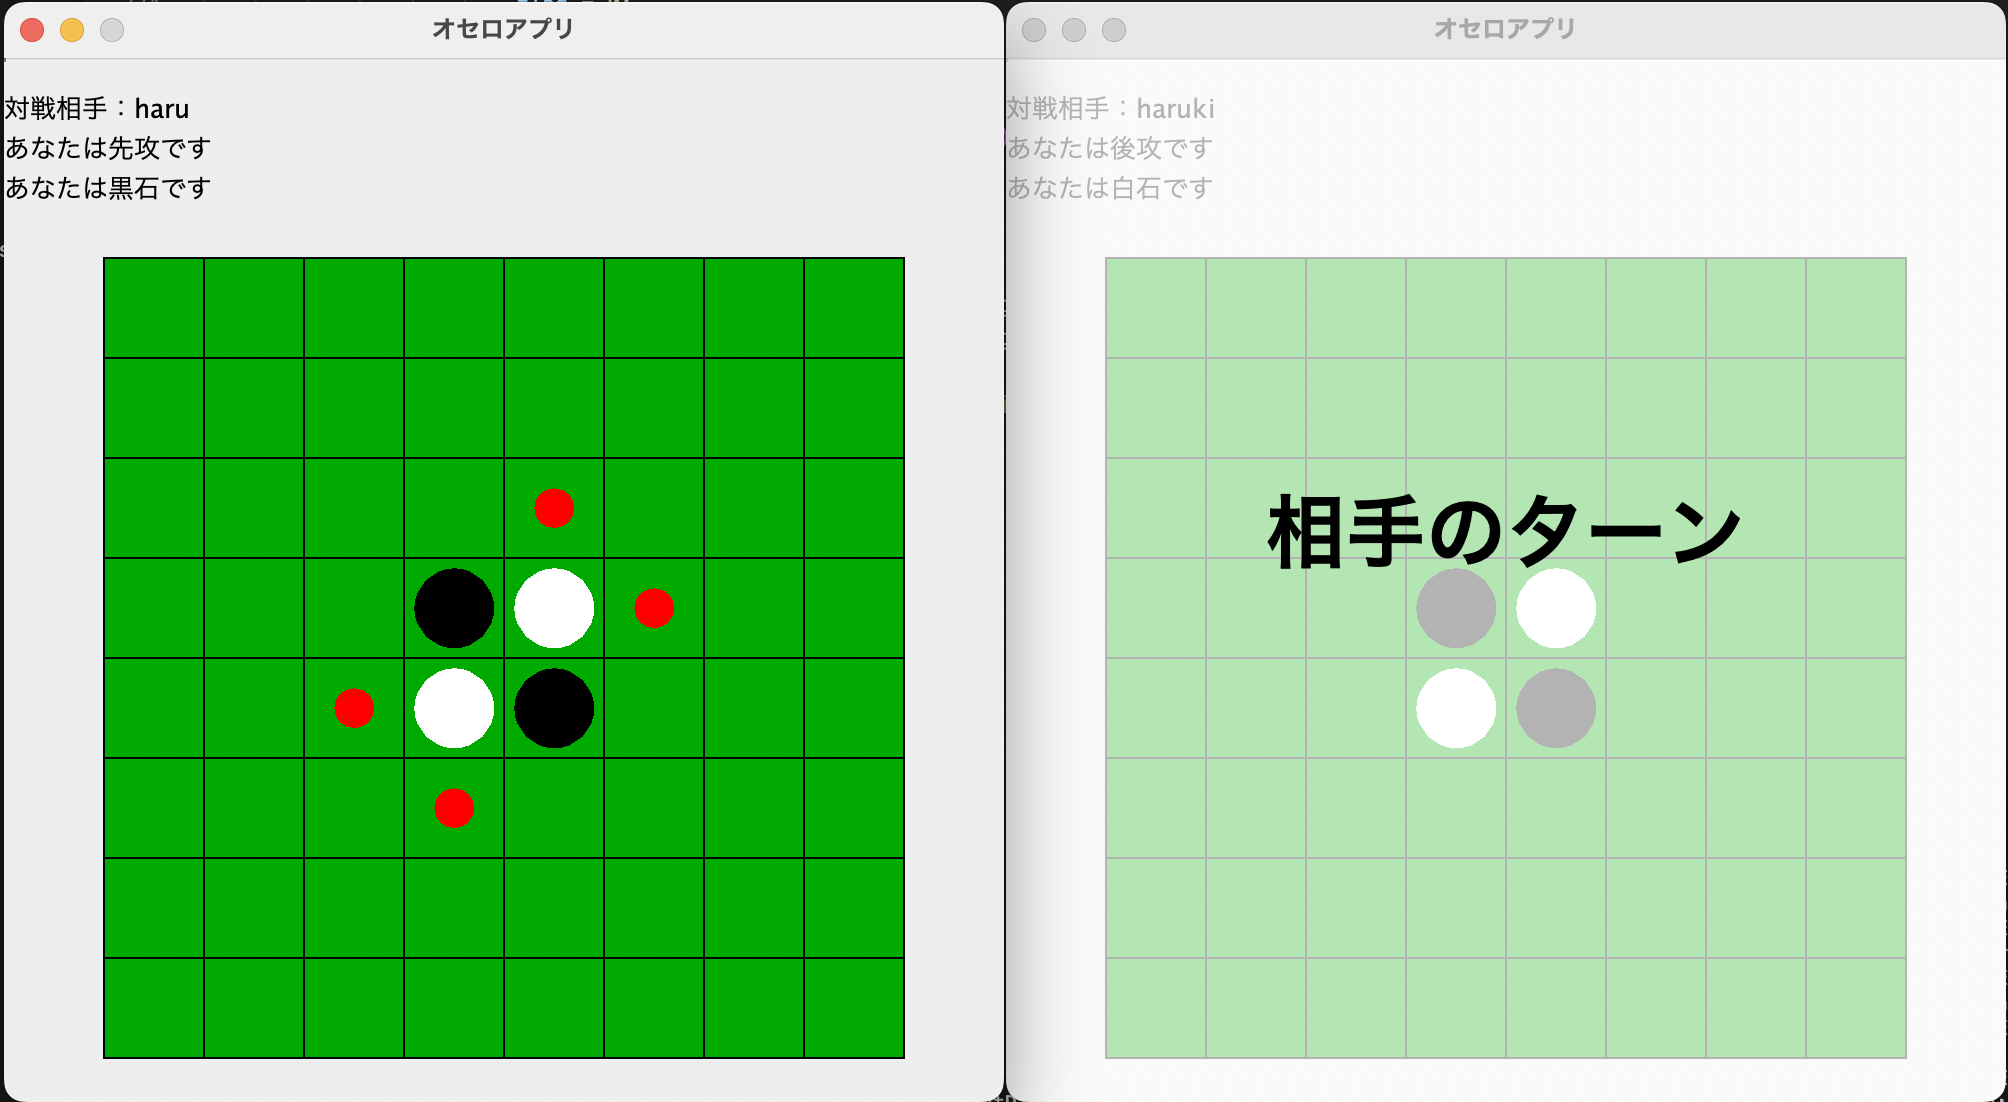
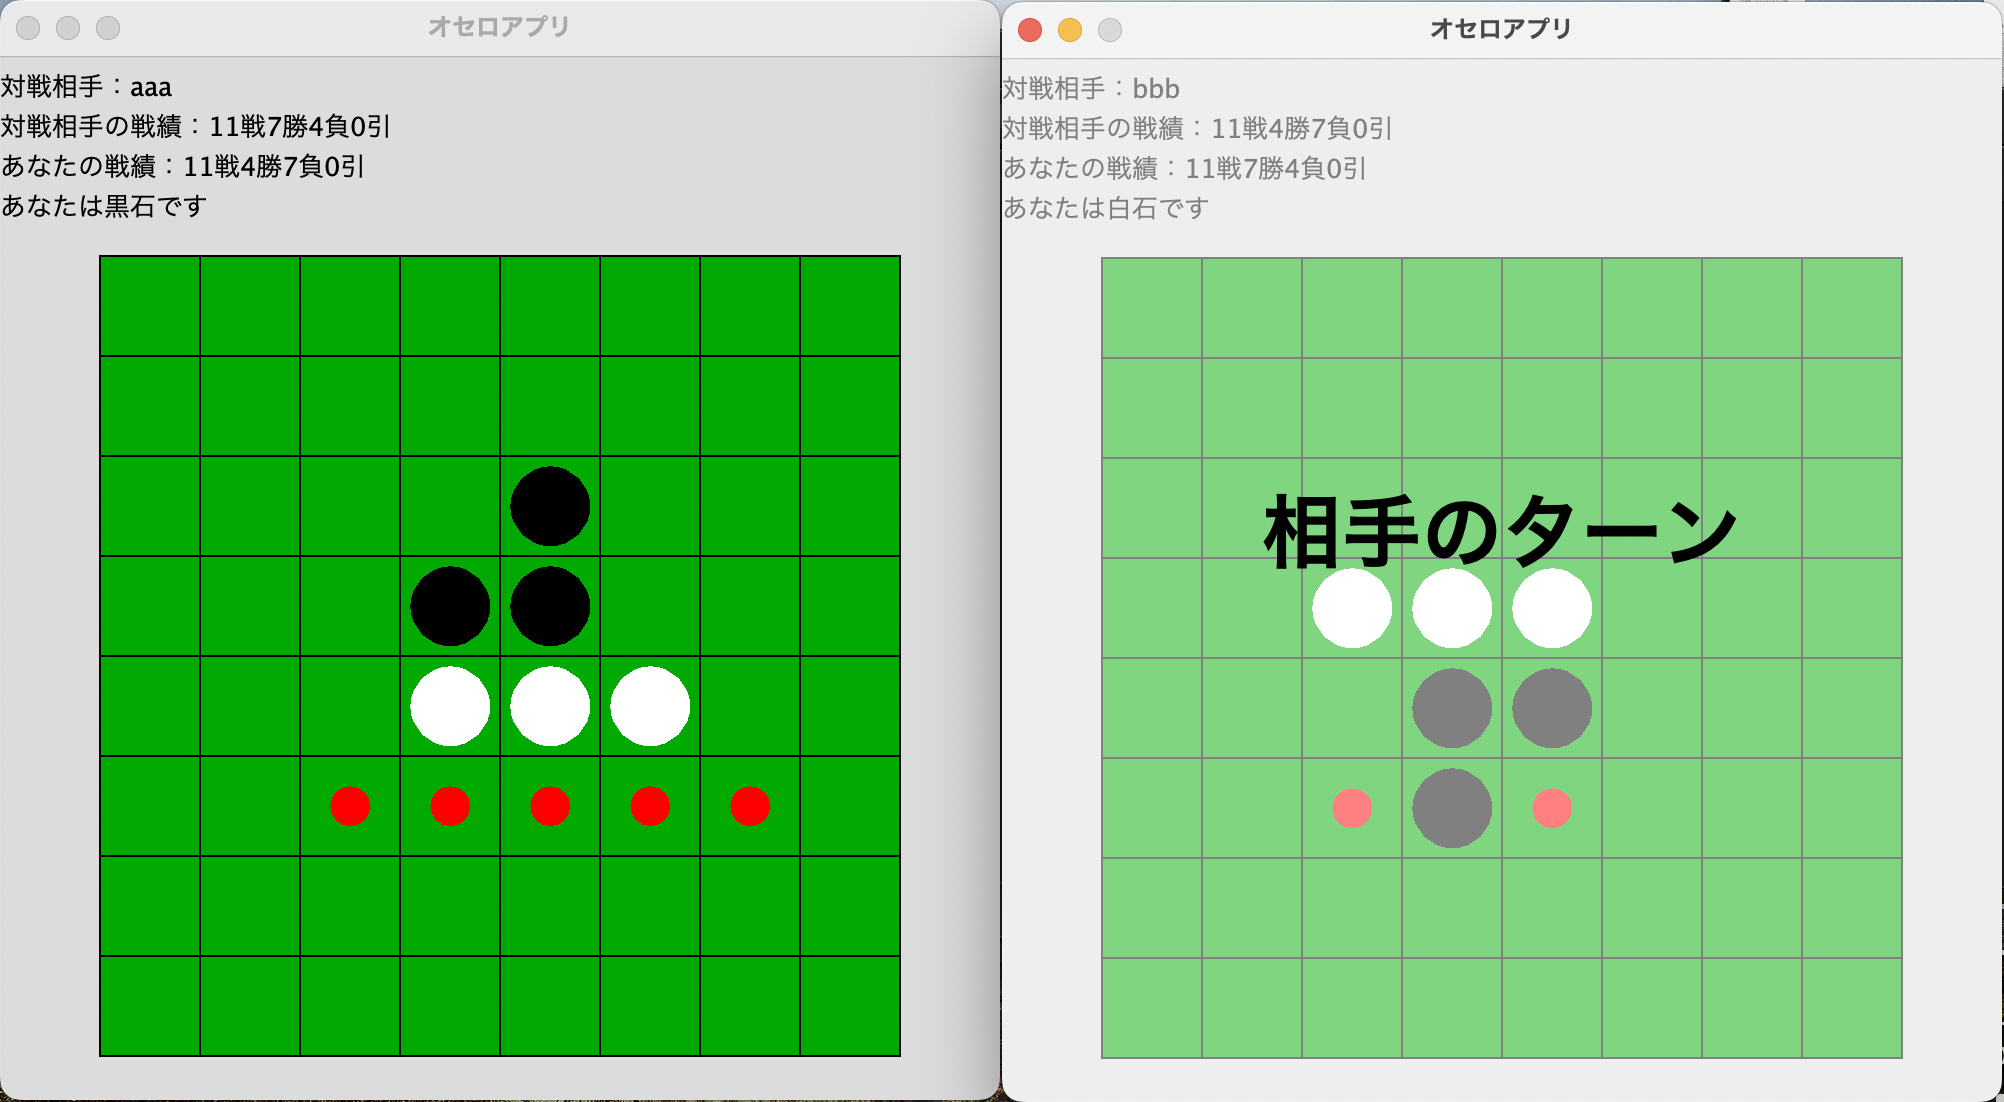
提出用

diff --git a/README.md b/README.md
@@ -11,23 +11,19 @@ java Client
 ## ゲーム開始
 対戦相手が見つかったら以下のようになり，オセロができる。
 ![](b.png)
+## ゲーム終了
+ゲームが終了するともう1度対戦するかアプリを終了するか選べる。
+![](c.png)
 ## 仕組み
-1. サーバー起動(クライアントを受付する準備OK)
+1. サーバー起動  
+ クライアントを受付する準備OK
 2. クライアント起動  
 サーバーはクライアントのアクセスを受け入れるとソケットを準備。さらにスレッドを作成してアクセスしたクライアントに割り当てる。これによって複数のクライアントをアクセス可能にした。
 3. サインアップ  
-ユーザ名とパスワードを受け付けるとcsvファイルに保存する。ユーザ名は被るとエラー。
+ユーザ名とパスワードを受け付けるとcsvファイルに保存する。ユーザ名が既に存在していたら登録できない。
 4. ログイン  
-ユーザ名とパスワードを受け付けるとcsvファイルと照合。
+ユーザ名とパスワードを受け付けるとcsvファイルと照合し，一致すればログイン可能。
 5. 対戦開始  
-接続ボタンを押すと対戦相手を探す。待機がいれば開始。いなければ自分が待機。待機がスレッドのwaitで実装。対戦するスレッド同士でオブジェクトを共通させることで，データをやり取りしている。
-
-## 工夫した点
-- サーバー対クライアントではなく，サーバーに接続したクライアント同士で対戦できるようにした。
-- 接続できるクライアントを無限。
-- 例えば6人接続していたとき，対戦ペアが3つできるようにした。
-
-## 残りのやること
-- ログインするとcatchに引っかかりエラーが出る。(でもゲームはプレイできる)
-- オセロの終了条件
-- アプリを閉じた時のソケットとスレッドの処理
+接続ボタンを押すと対戦相手を探す。待機がいれば開始し，いなければ自分が待機。待機はスレッドのwaitで実装。対戦するスレッド同士でオブジェクトを共通させることで，データをやり取りしている。
+6. 対戦終了  
+対戦が終了すると，戦績を更新し，csvファイルに保存する。またもう1度遊ぶかアプリを閉じるか選べる。
